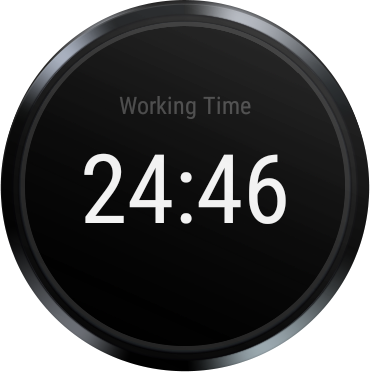
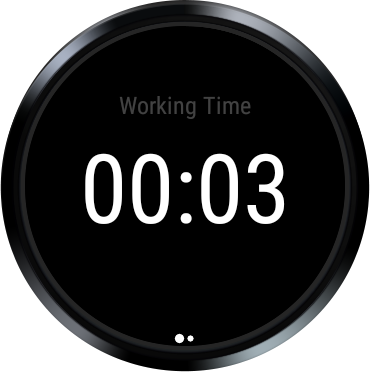
Updated README

diff --git a/README.md b/README.md
@@ -1,7 +1,13 @@
 # Pomowear
-The [Pomodoro Technique](http://en.wikipedia.org/wiki/Pomodoro_Technique) is a time management method developed by Francesco Cirillo in the late 1980s. This app makes it easy to have the power of the technique always with you.
+The [Pomodoro Technique](http://en.wikipedia.org/wiki/Pomodoro_Technique) is a time management method developed by Francesco Cirillo in the late 1980s.
 
-![Pomowear](screenshots/device-2015-05-18-210032.png)
+The Pomowear app makes it easy to have the power of this technique always with you, it has the following timers:
+
+1. 25 minutes work;
+2. 5 minutes short break;
+3. 15 minutes long break (after 4 pomodori).
+
+![Pomowear Timer](screenshots/device-2015-05-18-210032.png)  ![Pomowear Details](screenshots/device-2015-05-20-125916.png)
 
 #License
 
